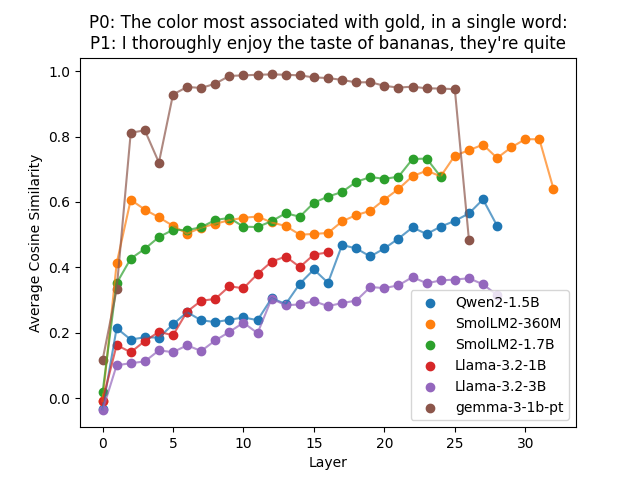
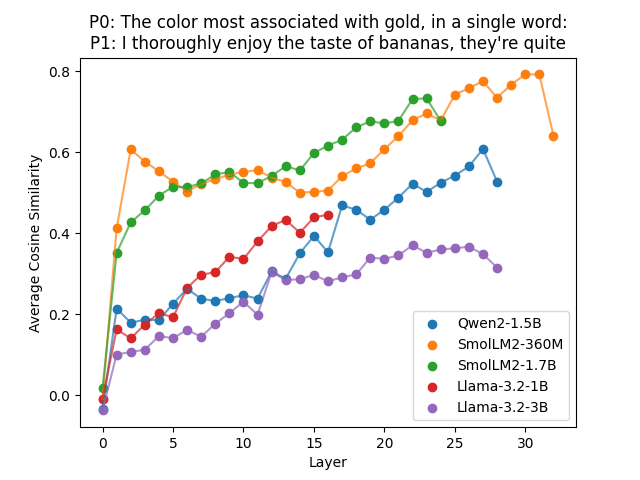
gemma weird

diff --git a/prompt_hidden_similarity.py b/prompt_hidden_similarity.py
@@ -86,13 +86,15 @@ def compute_group_similarities(hiddens: dict[str, list[torch.Tensor]]):
     return similarity_matrix, group_names
 
 if __name__ == "__main__":
-    test_models = ["Qwen/Qwen2-1.5B", "HuggingFaceTB/SmolLM2-360M", "HuggingFaceTB/SmolLM2-1.7B", "meta-llama/Llama-3.2-1B", "meta-llama/Llama-3.2-3B", "google/gemma-3-1b-pt"]
+    test_models = ["Qwen/Qwen2-1.5B", "HuggingFaceTB/SmolLM2-360M", "HuggingFaceTB/SmolLM2-1.7B", "meta-llama/Llama-3.2-1B", "meta-llama/Llama-3.2-3B"]
+    # "google/gemma-3-1b-pt"
+    # Gemma is weird and doesn't look the same as any of the above models
 
     template = lambda obj: f"The color most associated with {obj}, in a single word:"
 
     cases = [ # Prompts to compare similarity
         template("gold"),
-        template("banana")
+        "I thoroughly enjoy the taste of bananas, they're quite"
     ]
 
     parser = argparse.ArgumentParser(description="Compute hidden state similarity between prompts")
